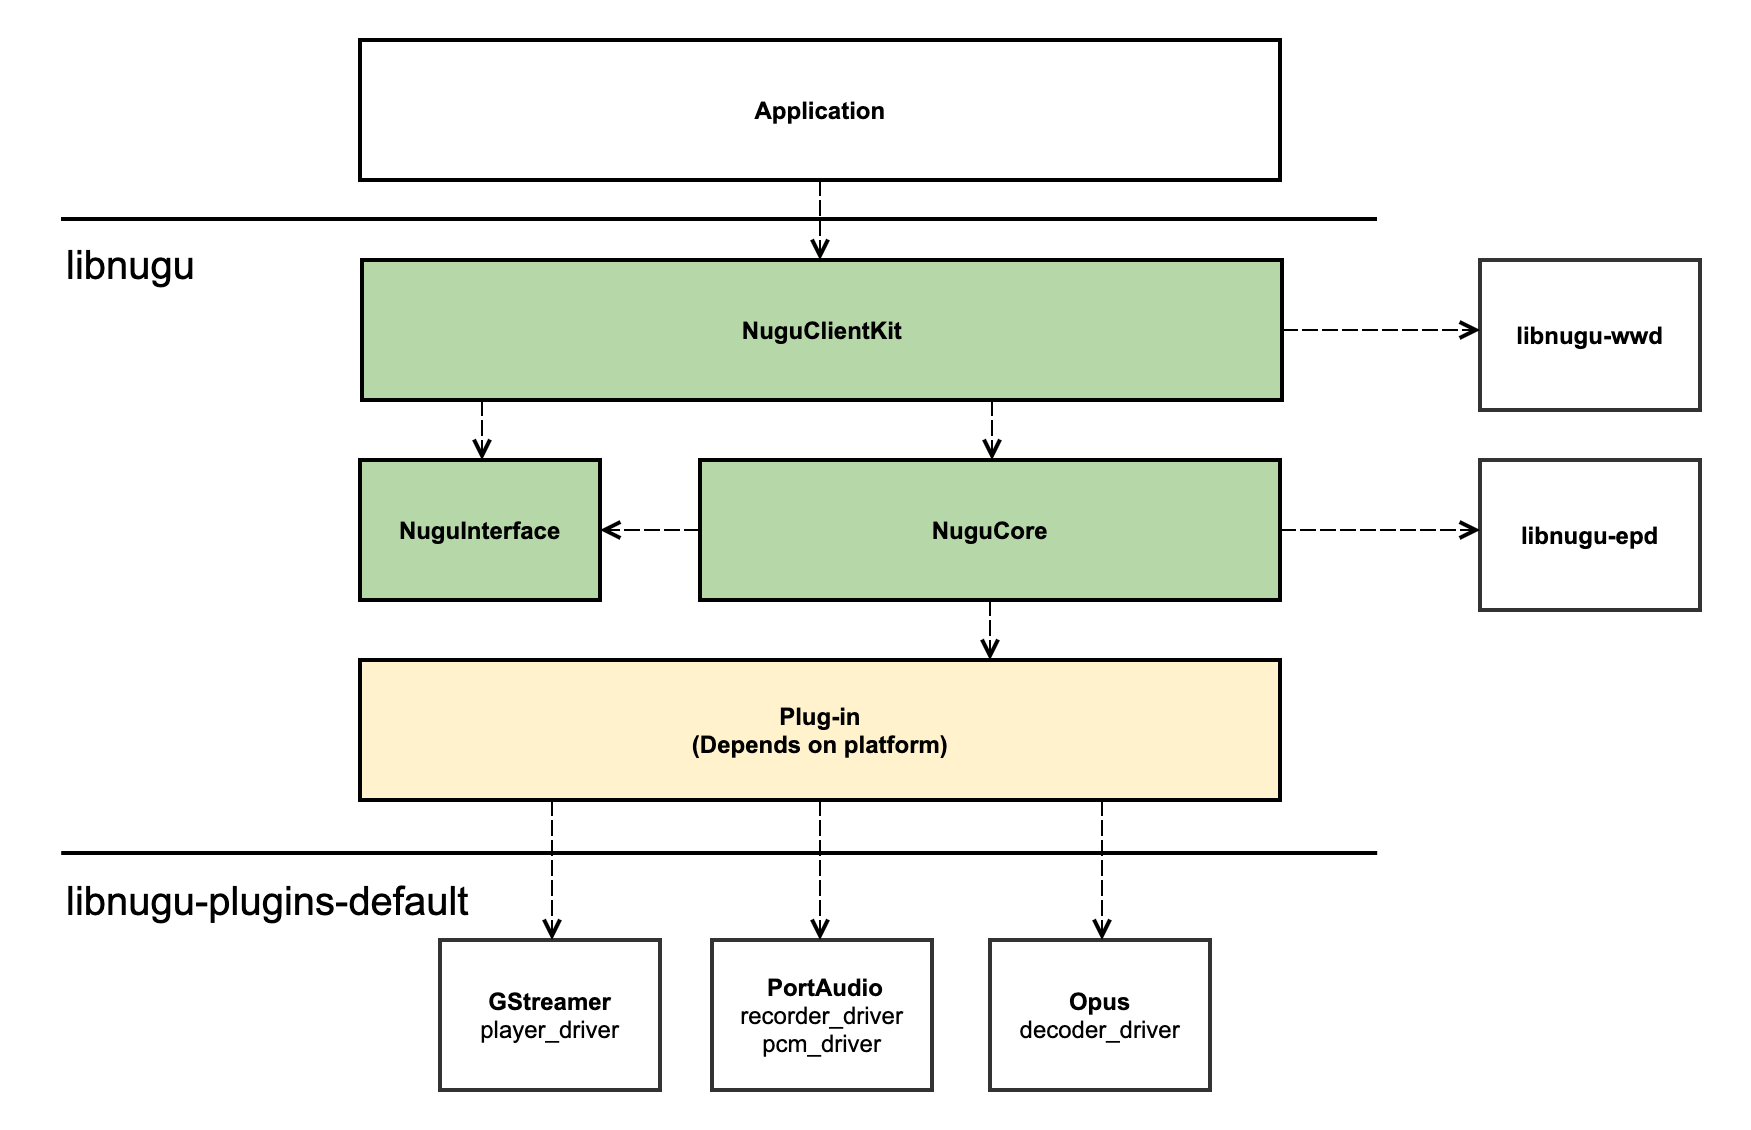
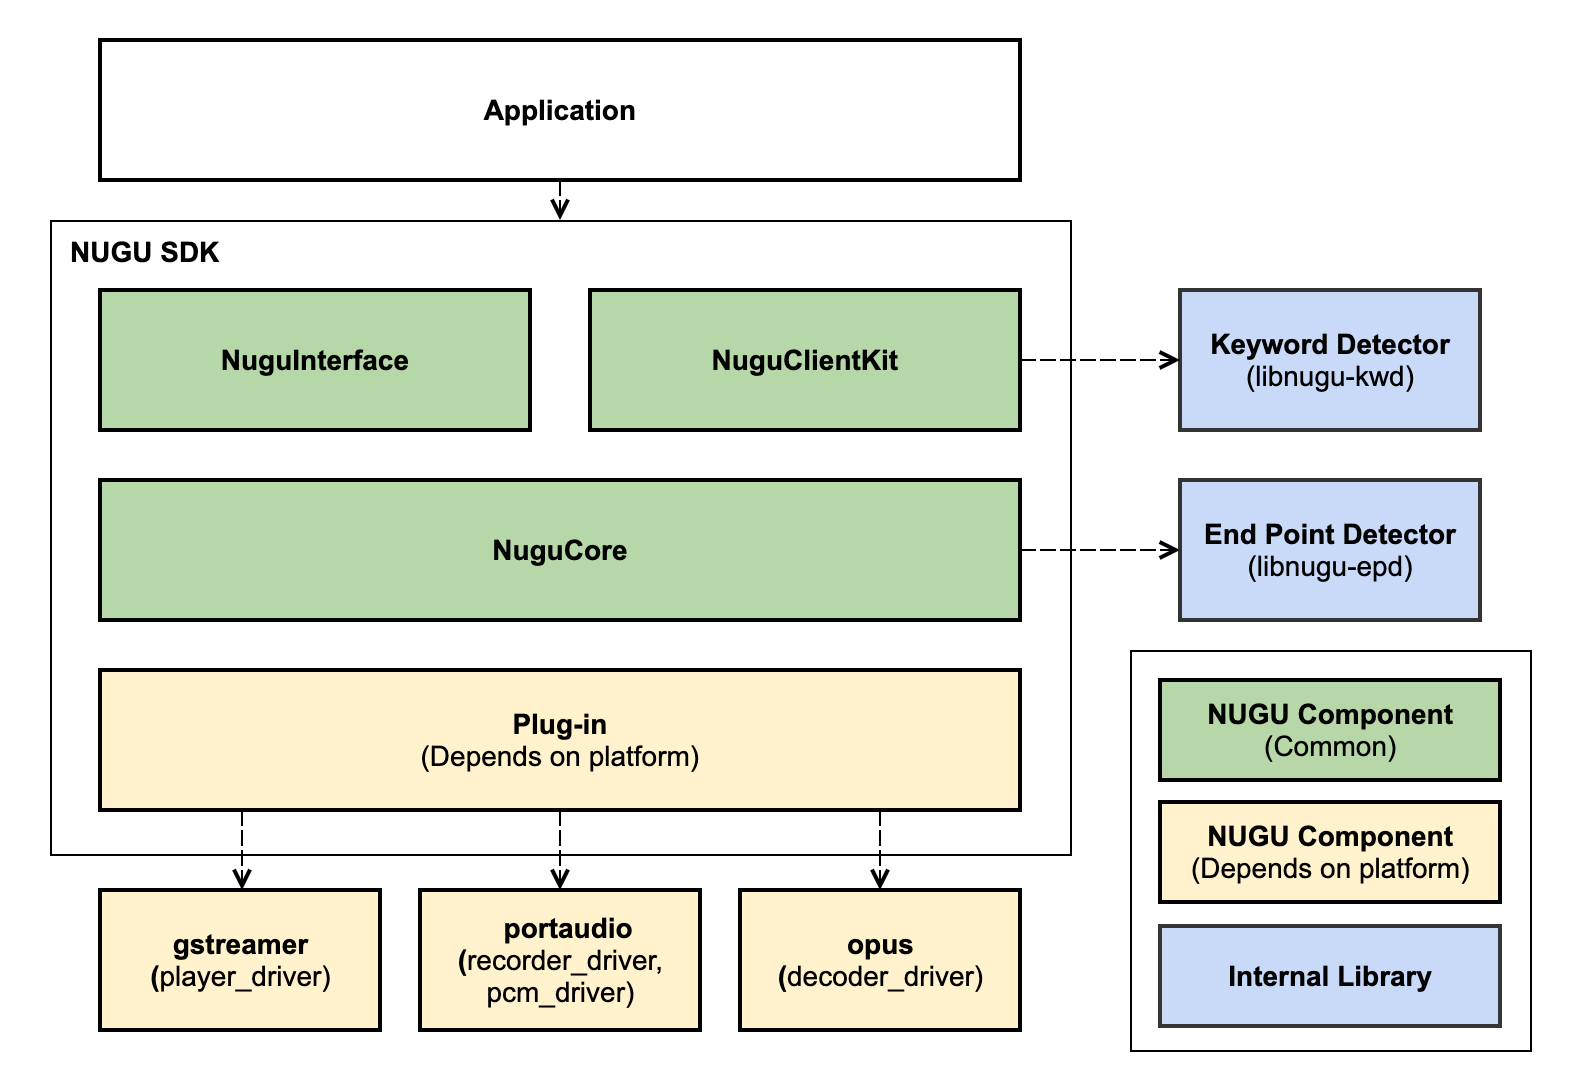
GitBook: [dev] 2 pages and 2 assets modified

diff --git a/nugu-sdk/platform/linux/start.md b/nugu-sdk/platform/linux/start.md
@@ -1,8 +1,12 @@
 # 시작하기
 
-## Step 1: Install the SDK
+## Step 1: 최소 요구사항 확인하기
 
-Linux SDK는 패키지\(`*.deb` 파일\)들을 쉽게 다운로드 받아 설치할 수 있도록 Ubuntu에서 제공하는 [PPA](https://launchpad.net/~nugulinux/+archive/ubuntu/sdk)\([https://launchpad.net](https://launchpad.net)\)에 관련 파일들을 올려 놓았습니다.
+* Ubuntu xenial\(16.04\)
+
+## Step 2: NUGU SDK 설치하기
+
+NUGU SDK for Linux는 설치에 필요한 패키지\(`*.deb`\) 파일들을 쉽게 다운로드 받을 수 있도록 Ubuntu에서 제공하는 [PPA](https://launchpad.net/~nugulinux/+archive/ubuntu/sdk)\([https://launchpad.net](https://launchpad.net)\)를 통해 배포하고 있습니다.
 
 ### PPA 추가하기
 
@@ -40,16 +44,14 @@ sudo apt-get update
 
 ### 패키지 설치하기
 
-Linux SDK는 아래의 패키지들로 구성되어 있습니다.
+NUGU SDK for Linux는 아래의 패키지들로 구성되어 있습니다.
 
 | 패키지 | 설명 |
 | :--- | :--- |
-| `libnugu` | NUGU SDK 동작에 필요한 파일 - Shared library\(`*.so.{version}` files\) |
-| `libnugu-plugins-default` | NUGU SDK Default plugins - `gstreamer.so`, `opus.so`, `portaudio.so` 등 |
-| `libnugu-dev` | NUGU SDK 개발에 필요한 파일 - header files\(`*.h`, `*.hh`\), pkg-config\(`nugu.pc`\) 및 `libnugu.so` |
-| `libnugu-examples` | NUGU SDK Examples \(콘솔 기반의 샘플 프로그램 및 OAuth2 클라이언트\) |
-
-기본적인 동작을 위해서 `libnugu`와 `libnugu-plugins-default` 패키지가 필요하며, 개발시에는 빌드를 위해 `libnugu-dev` 패키지가 추가로 필요합니다.
+| `libnugu` | NUGU SDK 동작에 필요한 패키지 - shared library\(`*.so.{version}` files\) |
+| `libnugu-plugins-default` | 기본 제공 플러그인 모음 패키지 - `gstreamer.so`, `opus.so`, `portaudio.so` 등 |
+| `libnugu-dev` | 빌드에 필요한 패키지 - header files, pkg-config\(`nugu.pc`\) 및 `libnugu.so` |
+| `libnugu-examples` | 예제 프로그램 패키지 - 콘솔 기반의 예제 프로그램, OAuth2 클라이언트 예제 |
 
 아래 명령을 통해 시스템에 설치할 수 있습니다.
 
@@ -57,197 +59,105 @@ Linux SDK는 아래의 패키지들로 구성되어 있습니다.
 sudo apt-get install libnugu libnugu-plugins-default libnugu-dev libnugu-examples
 ```
 
-## Step 2: Sample application
+## Step 3: 프로젝트 설정하기
 
-Linux SDK는 아래와 같이 2가지 샘플을 제공하고 있습니다.
+### PoC 정보 입력하기
 
-* 인증을 위한 OAuth2 예제 - Python으로 작성된 Web 기반의 OAuth2 client sample
-* SDK 기능 동작을 테스트하기 위한 예제 - 콘솔에서 동작하는 텍스트 기반의 Sample application
+{% hint style="warning" %}
+NUGU PoC를 생성하기 위해서는 NUGU Developers를 통해 제휴가 필요합니다.  
+더 자세한 내용은 [NUGU SDK 소개](https://developers.nugu.co.kr/#/sdk/nuguSdkInfo)에서 확인이 가능합니다.
+{% endhint %}
 
-위 샘플들은 `libnugu-examples` 패키지안에 모두 포함되어 있으며, 아래 파일들이 설치됩니다.
+제휴를 통해 생성된 PoC 정보를 확인하기 위해서 [NUGU SDK PoC목록](https://developers.nugu.co.kr/#/sdk/pocList)으로 이동해서 ClientID, ClientSecret, Redirect URI 정보를 확인하세요.
 
-| 파일 | 설명 |
-| :--- | :--- |
-| `/usr/bin/nugu_oob_server` | OAuth2 인증을 위한 웹서버 - Python script, `8080` 포트 사용 |
-| `/usr/bin/nugu_sample` | 콘솔 기반의 Sample application |
-| `/usr/bin/nugusdk_start_sample` | 저장된 인증 토큰 값을 읽어서 환경 변수로 설정해주는 shell script |
-| `/lib/systemd/system/nugu_oob.service` | 시스템 시작시 OAuth2 인증 웹서버를 자동으로 실행시키기 위한 systemd 설정 파일 |
+### OAuth2 client 구현하기
 
-### 음성 인식 처리를 위한 Model 파일 다운로드 받기
+NUGU SDK for Linux는 아래의 이유로 인해 iOS, Android 달리 인증을 위한 기능을 제공하고 있지 않습니다. 
 
-NUGU 서비스에서는 음성 인식 처리를 위해 아래의 음성 Model 파일을 필요로 합니다.
+* Linux 기반의 제품은 대부분 디스플레이가 없어 별도의 Companion application을 통해 사용자 인증\(로그인 등\)을 필요로 함.
+* 디스플레이가 탑재되어 있는 제품이라 할지라도, Linux는 다른 플랫폼과 달리 GUI framework이 다양하기 때문에 표준화된 인증 UI를 SDK에서 제공해 주기 어려움.
+
+하지만, 인증을 쉽게 테스트할 수 있도록 아래의 NUGU SDK for Linux Github에 Python으로 작성된 별도의 웹기반 OAuth2 client 예제를 제공하고 있습니다.
+
+{% embed url="https://github.com/nugu-developers/nugu-linux/wiki/Sample-OAuth2" caption="NUGU SDK for Linux OAuth2 client python sample" %}
+
+### 음성 인식 처리를 위한 Model 파일 설치하기
+
+NUGU SDK for Linux는 음성 인식 처리를 위해 아래의 음성 Model 파일을 필요로 합니다.
 
 * Wake word\("아리아"\) detection을 위한 model 파일
 * VAD\(voice activity detection\)을 위한 model 파일
 
-위 파일들은 Nugu developers 사이트에서 사용 약관에 동의 후 다운로드 받으실 수 있습니다.
-
-다운로드 받은 파일들을 Linux SDK에서 사용하기 위해서는, 디바이스에 임의의 디렉토리를 생성한 후 아래와 같은 파일명으로 복사해 주시면 됩니다.
+위 파일들은 NUGU developers 사이트에서 사용 약관에 동의 후 다운로드 받으실 수 있습니다. 다운로드가 완료되면, Linux 디바이스에 임의의 디렉토리를 생성한 후, 아래와 같은 파일명으로 복사해 주시면 됩니다.
 
 * `nugu_model_wakeup_net.raw`  - wake word detection에 사용되는 model 파일 \(1/2\)
 * `nugu_model_wakeup_search.raw`  - wake word detection에 사용되는 model 파일 \(2/2\)
 * `nugu_model_epd.raw` - VAD에 사용되는 model 파일
 
-## Step 3: Create your first application
+## Step 4: NUGU 사용하기
 
-### Linux SDK API를 사용하여 코드 작성
+### GMainLoop 사용하기
 
-간략하게 사용자의 음성을 인식해서 NUGU 서버에 전송하고, TTS 응답을 받아 출력하는 Sample application을 개발해 보겠습니다.
+NUGU SDK for Linux는 event-driven 방식으로 어플리케이션을 개발할 수 있도록 [glib](https://wiki.gnome.org/Projects/GLib)에서 제공하는 [event loop](https://developer.gnome.org/glib/stable/glib-The-Main-Event-Loop.html)을 사용하고 있습니다.  따라서 `main()` 코드는 아래 구조로 작성되어야 합니다.
 
-먼저, 사용자의 음성을 인식하기 위해 `ASR Capability`를 사용해야 합니다. 아래와 같이 ASR 상태 변화 이벤트를 받을 수 있는 Listener를 작성합니다.
-
-```cpp
-class MyASR : public IASRListener {
-public:
-    virtual ~MyASR() = default;
-
-    void onState(ASRState state)
-    {
-        switch (state) {
-        case ASRState::IDLE:
-            std::cout << "대기 상태" << std::endl;
-            break;
-        case ASRState::EXPECTING_SPEECH:
-            std::cout << "추가 발화 요청" << std::endl;
-            break;
-        case ASRState::LISTENING:
-            std::cout << "듣고 있습니다." << std::endl;
-            break;
-        case ASRState::RECOGNIZING:
-            std::cout << "발화를 인식중입니다." << std::endl;
-            break;
-        case ASRState::BUSY:
-            std::cout << "처리중입니다." << std::endl;
-            break;
-        }
-    }
-
-    void onNone()
-    {
-        std::cout << "인식 결과가 없습니다." << std::endl;
-    }
-
-    /* 중간 인식 결과 */
-    void onPartial(const std::string& text)
-    {
-        std::cout << text << std::endl;
-    }
-
-    /* 최종 인식 결과 */
-    void onComplete(const std::string& text)
-    {
-        std::cout << text << std::endl;
-    }
-
-    void onError(ASRError error)
-    {
-        std::cout << "에러가 발생하였습니다." << std::endl;
-    }
-
-    void onCancel()
-    {
-        std::cout << "취소되었습니다." << std::endl;
-    }
-
-    void setExpectSpeechState(bool is_es_state)
-    {
-        std::cout << "말씀해 주세요." << std::endl;
-    }
-};
-```
-
-이제 서버와의 연결 상태 이벤트를 받을 수 있는 Listener를 구현합니다. 네트워크가 정상적으로 연결되면 `ASR Capability`에 음성 인식을 시작시키는 `startRecognition()` API를 호출합니다.
-
-```cpp
-class MyNetwork : public INetworkManagerListener {
-public:
-    void onConnected()
-    {
-        nugu_client->getASRHandler()->startRecognition();
-    }
-
-    void onDisconnected()
-    {
-    }
-
-    void onError(NetworkError error)
-    {
-        switch (error) {
-        case NetworkError::TOKEN_ERROR:
-            break;
-        case NetworkError::UNKNOWN:
-            break;
-        }
-    }
-};
-```
-
-이제 필요한 부분은 거의 다 작성되었습니다. Application을 동작시키기 위해 `NuguClient`를 생성하고 `GMainLoop`에 연결시키기 위해 아래와 같이 `main()` 함수를 작성합니다.
-
-```cpp
+```c
 #include <glib.h>
-#include <interface/capability/asr_interface.hh>
+
+int main(int argc, char *argv[])
+{
+  GMainLoop *loop;
+
+  /* event loop 생성 */
+  loop = g_main_loop_new (NULL, FALSE);
+
+  /* 사용자의 초기화 코드 등록(nugu sdk 코드 등) */
+
+  /* event loop 시작 */
+  g_main_loop_run (loop);
+
+  /* event loop 해제 */
+  g_main_loop_unref (loop);
+
+  return 0;
+}
+```
+
+### NUGU 음성인식 사용하기
+
+NUGU SDK for Linux에서 제공하는 `NuguClientKit`을 사용하면 손쉽게 NUGU 음성인식 기능을 구현할 수 있습니다.  먼저 `nugu_client.hh` 파일을 include에 포함시키고, `NuguClientKit` namespace를 사용하도록 합니다. 
+
+```cpp
 #include <interface/nugu_client.hh>
-#include <interface/nugu_configuration.hh>
 
 using namespace NuguClientKit;
+```
 
-/* MyASR */
-class MyASR : public IASRListener {
-    ...
-}
+이제 `NuguClient` 객체를 만들고, OAuth2 access token과 음성인식 Model 파일을 설정합니다.
 
-/* MyNetwork */
-class MyNetwork : public INetworkManagerListener {
-    ...
-}
+```cpp
+std::unique_ptr<NuguClient> nugu_client;
 
-int main()
-{
-    std::unique_ptr<MyASR> my_asr_listener;
-    my_asr_listener = std::unique_ptr<MyASR>(new MyASR());
+nugu_client = std::unique_ptr<NuguClient>(new NuguClient());
+nugu_client->setAccessToken("...");
+nugu_client->setConfig(NuguConfig::Key::MODEL_PATH, "/home/work/model");
+```
 
-    nugu_client = std::unique_ptr<NuguClient>(new NuguClient());
+준비과정이 모두 끝났습니다. 이제 음성인식 기능을 사용하기 위해 `ASR Capability`를 추가하고 NUGU 서비스에 접속합니다.
 
-    /* Token 설정 */
-    nugu_client->setAccessToken(getenv("NUGU_TOKEN"));
-
-    /* 음성 인식을 위한 Model 파일 설정 */
-    nugu_client->setConfig(NuguConfig::Key::MODEL_PATH, "/home/work/model");
-
-    /* Capability 등록 */
-    nugu_client->getCapabilityBuilder()
+```cpp
+nugu_client->getCapabilityBuilder()
         ->add(CapabilityType::ASR, my_asr_listener.get())
         ->construct();
-
-    nugu_client->initialize();
-
-    /* Network manager */
-    std::unique_ptr<MyNetwork> network_manager_listener;
-    network_manager_listener = std::unique_ptr<MyNetwork>(new MyNetwork());
-
-    INetworkManager* network_manager = nugu_client->getNetworkManager();
-    network_manager->addListener(network_manager_listener.get());
-
-    network_manager->connect();
-
-    /* GMainLopp 시작 */
-    GMainLoop* loop = g_main_loop_new(NULL, FALSE);
-    g_main_loop_run(loop);
-
-    g_main_loop_unref(loop);
-
-    nugu_client->deInitialize();
-
-    return 0;
-}
+nugu_client->getNetworkManager()->connect();
 ```
+
+전체 코드는 Github의 아래 wiki에서 확인할 수 있습니다.
+
+{% embed url="https://github.com/nugu-developers/nugu-linux/wiki/Create-your-first-application" caption="NUGU SDK for Linux Wiki - Create your first application" %}
 
 ### Build
 
-이제 위에서 작성된 코드를 빌드해 보겠습니다.
-
-Linux SDK는 빌드를 쉽게 하기 위해 `pkg-config` 파일을 제공합니다. 따라서, 아래와 같이 `nugu.pc`를 사용하면 include path와 library 이름이 자동으로 설정됩니다.
+NUGU SDK for Linux는 빌드 설정을 쉽게 구성할 수 있도록 `pkg-config` 파일을 제공합니다. 따라서, 아래와 같이 `nugu.pc`를 사용해서 빌드 명령을 수행하면 됩니다.
 
 ```bash
 $ g++ -std=c++11 hello.cc `pkg-config --cflags --libs nugu` -o hello
@@ -257,7 +167,7 @@ $ g++ -std=c++11 hello.cc `pkg-config --cflags --libs nugu` -o hello
 
 ### Download the SDK source code
 
-아래 Github 주소를 통해 Linux SDK 소스 코드를 다운로드 받을 수 있습니다.
+아래 Github 주소를 통해 NUGU SDK for Linux 전체 소스 코드를 다운로드 받을 수 있습니다.
 
-{% embed url="https://github.com/nugu-developers/nugu-linux" caption="" %}
+{% embed url="https://github.com/nugu-developers/nugu-linux" caption="NUGU SDK for Linux Github repository" %}
 

diff --git a/nugu-sdk/platform/linux/component.md b/nugu-sdk/platform/linux/component.md
@@ -1,22 +1,25 @@
 # 구성요소
 
-## Overview
-
-Linux SDK는 크게 아래와 같이 구성되어 있습니다.
-
 ![](../../../.gitbook/assets/open-sdk-architecture-linux.png)
 
-Application 개발자를 위해 `NuguClientKit`, `NuguInterface`, `NuguCore` 모듈을 제공하고 있고, 디바이스 특성에 맞게 장치 연동 부분을 쉽게 개발할 수 있도록 `Plug-in` 개발 모듈을 제공하고 있습니다.
+## 구성요소 목록
 
-| 모듈 | 설명 |
-| :--- | :--- |
-| `NuguClientKit` | NUGU 서비스를 쉽게 개발할 수 있는 API를 제공합니다. |
-| `NuguInterface` | Capability를 쉽게 제어할 수 있는 API를 제공합니다. |
-| `NuguCore` | NUGU 서비스 개발에 필요한 구성요소들을 제공합니다. |
+* NUGU Component \(Common\)
+  * `NuguClientKit`: NUGU 서비스를 쉽게 개발할 수 있도록 도와주는 기능을 제공합니다.
+  * `NuguInterface`: Capability를 쉽게 제어할 수 있는 API를 제공합니다.
+  * `NuguCore`: NUGU 서비스 개발에 필요한 구성요소들을 제공합니다.
+* NUGU Component \(Depends on platform\)
+  * Plug-in: 디바이스 특성에 맞게 미디어 드라이버를 구현할 수 있는 API를 제공합니다.
+  * `gstreamer`: plug-in에서 제공하는 `player_driver`를 이용해서 `gstreamer`를 통한 미디어 재생 기능을 제공합니다.
+  * `portaudio`: plug-in에서 제공하는 `recorder_driver`, `pcm_driver`를 이용해서 `portaudio`를 통한 음성 데이터 입/출력 기능을 제공합니다.
+  * `opus`: plug-in에서 제공하는 `decoder_deriver`를 이용해서 opus 코덱을 디코딩 합니다.
+* Internal Library
+  * `libnugu-kwd`: NUGU의 키워드를 감지하는 기능을 제공합니다.
+  * `libnugu-epd`: 발화의 시작과 끝을 감지하는 기능을 제공합니다.
 
-## Dependency
+## 의존성 목록
 
-Linux SDK는 아래의 외부 library를 사용하고 있습니다. 때문에 사용하고 있는 Linux 시스템에 아래 패키지들이 설치되어 있어야 합니다. `apt-get` 명령으로 Linux SDK 패키지를 설치하면 의존성으로 인해 아래 패키지들도 자동으로 같이 설치됩니다.
+NUGU SDK for Linux는 아래의 외부 라이브러리를 사용하고 있습니다. 때문에 사용하고 있는 Linux 시스템에 아래 패키지들이 설치되어 있어야 합니다.
 
 <table>
   <thead>
